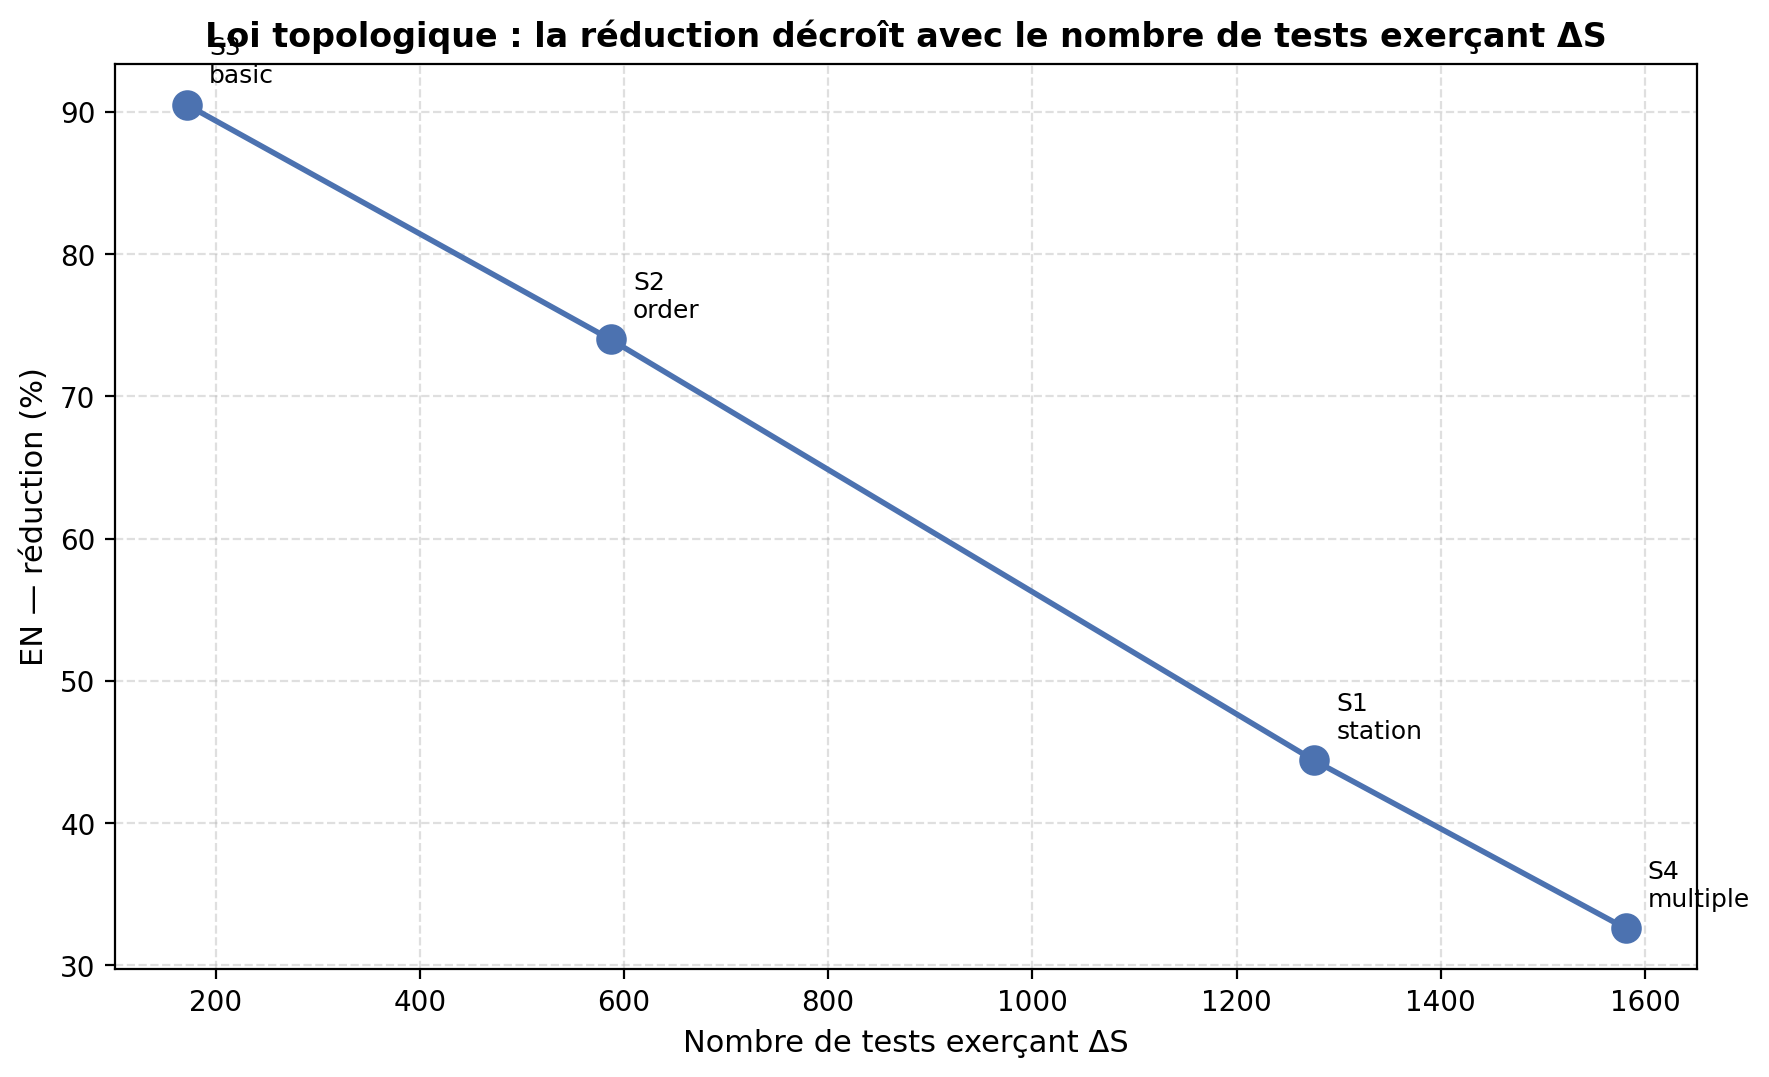
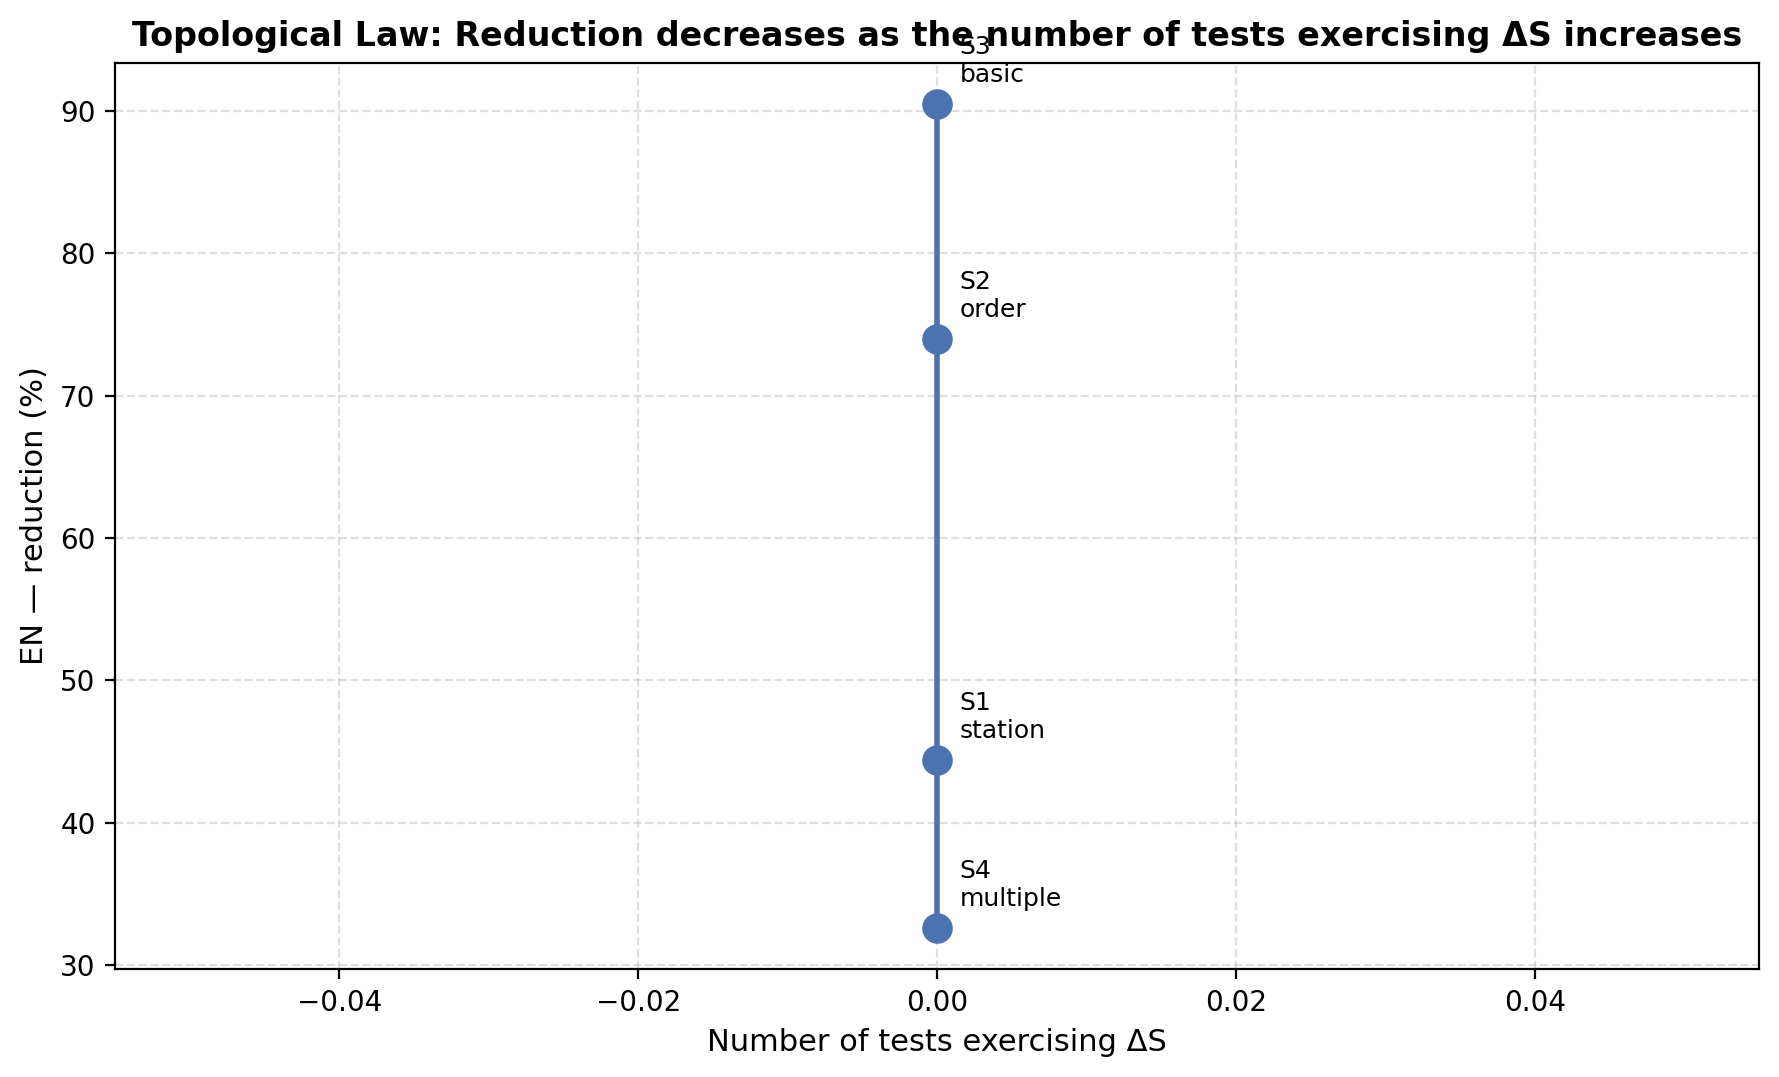
upp

diff --git a/metabp-rts/3_generer_figures.py b/metabp-rts/3_generer_figures.py
@@ -1,10 +1,10 @@
 #!/usr/bin/env python3
 """
-Génère les figures publiables du chapitre 4 (style barres groupées, façon Chen Fig.9).
-Lit final_results.csv et comparatif_baselines.csv.
-Produit des PNG haute résolution dans figures/.
+Generates publishable figures for Chapter 4 (grouped bar style, similar to Chen Fig. 9).
+Reads final_results.csv and comparatif_baselines.csv.
+Outputs high-resolution PNG files in figures/.
 
-À lancer depuis la racine metabp-rts/metabp-rts/ APRÈS les scripts 1 et 2.
+To be executed from the metabp-rts/metabp-rts/ root directory AFTER scripts 1 and 2.
 """
 import csv
 from pathlib import Path
@@ -18,11 +18,11 @@ Path("figures").mkdir(exist_ok=True)
 PALETTE = {"EN":"#4C72B0", "Recall":"#55A868", "Precision":"#C44E52", "F":"#8172B3"}
 
 # ─────────────────────────────────────────────────────────────
-# FIGURE 1 : MetaBP-RTS — métriques par scénario (barres groupées)
+# FIGURE 1 : MetaBP-RTS — Metrics per Scenario (Grouped Bars)
 # ─────────────────────────────────────────────────────────────
 rows = list(csv.DictReader(open("final_results.csv")))
-labels = {"S1_station":"S1 · station\n(feuille)", "S2_order":"S2 · order\n(hub)",
-          "S3_basic":"S3 · basic\n(intermédiaire)", "S4_multiple":"S4 · multiple\n(3 services)"}
+labels = {"S1_station":"S1 · station\n(leaf)", "S2_order":"S2 · order\n(hub)",
+          "S3_basic":"S3 · basic\n(intermediate)", "S4_multiple":"S4 · multiple\n(3 services)"}
 scen = [labels.get(r["scenario"], r["scenario"]) for r in rows]
 EN  = [float(r["EN"]) for r in rows]
 RE  = [float(r["Recall"]) for r in rows]
@@ -32,9 +32,9 @@ FM  = [float(r["F"])*100 for r in rows]
 x = np.arange(len(scen)); w = 0.20
 fig, ax = plt.subplots(figsize=(11,6))
 bars = [
-    ("EN (réduction)", EN, PALETTE["EN"], -1.5),
-    ("Recall (sûreté)", RE, PALETTE["Recall"], -0.5),
-    ("Précision", PR, PALETTE["Precision"], 0.5),
+    ("EN (reduction)", EN, PALETTE["EN"], -1.5),
+    ("Recall (safety)", RE, PALETTE["Recall"], -0.5),
+    ("Precision", PR, PALETTE["Precision"], 0.5),
     ("F-measure", FM, PALETTE["F"], 1.5),
 ]
 for lab, vals, col, off in bars:
@@ -43,8 +43,8 @@ for lab, vals, col, off in bars:
         h = bar.get_height()
         ax.annotate(f"{h:.0f}", (bar.get_x()+bar.get_width()/2, h),
                     xytext=(0,2), textcoords="offset points", ha="center", fontsize=7)
-ax.set_ylabel("Pourcentage (%)", fontsize=12)
-ax.set_title("MetaBP-RTS — Métriques par scénario de changement ΔS (Train-Ticket)",
+ax.set_ylabel("Percentage (%)", fontsize=12)
+ax.set_title("MetaBP-RTS — Metrics by Change Scenario ΔS (Train-Ticket)",
              fontsize=13, fontweight="bold")
 ax.set_xticks(x); ax.set_xticklabels(scen, fontsize=10)
 ax.set_ylim(0,108); ax.axhline(100, color=PALETTE["Recall"], ls=":", alpha=0.5)
@@ -53,57 +53,57 @@ plt.tight_layout(); plt.savefig("figures/fig_metabp_scenarios.png", dpi=200, bbo
 print("✓ figures/fig_metabp_scenarios.png")
 
 # ─────────────────────────────────────────────────────────────
-# FIGURE 2 : Comparatif Recall par technique (façon Chen Fig.8)
+# FIGURE 2 : Recall Comparison by Technique (similar to Chen Fig. 8)
 # ─────────────────────────────────────────────────────────────
 try:
     comp = list(csv.DictReader(open("comparatif_baselines.csv")))
     techs = ["Retest-All","Random-N×30","MRTS-BP*","Firewall-0","Firewall-1","MetaBP-RTS"]
     scen_ids = ["S1_station","S2_order","S3_basic","S4_multiple"]
-    # Recall moyen par technique
+    # Average Recall per technique
     fig, (ax1, ax2, ax3) = plt.subplots(1, 3, figsize=(18,5.5))
     colT = {"Retest-All":"#999999","Random-N×30":"#DD8452","MRTS-BP*":"#937860",
             "Firewall-0":"#C44E52","Firewall-1":"#CCB974","MetaBP-RTS":"#4C72B0"}
 
-    # Recall groupé par scénario
+    # Recall grouped by scenario
     xs = np.arange(len(scen_ids)); wt = 0.13
     for i,tech in enumerate(techs):
         vals = [next((float(r["Recall"]) for r in comp
                       if r["scenario"]==s and r["technique"]==tech), 0) for s in scen_ids]
         ax1.bar(xs + (i-2.5)*wt, vals, wt, label=tech, color=colT[tech])
-    ax1.set_title("Recall (sûreté) par technique", fontweight="bold")
+    ax1.set_title("Recall (safety) by technique", fontweight="bold")
     ax1.set_ylabel("Recall (%)"); ax1.set_xticks(xs)
     ax1.set_xticklabels([s.replace("_","\n") for s in scen_ids], fontsize=9)
     ax1.set_ylim(0,108); ax1.axhline(100, color="green", ls=":", alpha=0.4)
     ax1.legend(fontsize=7, loc="lower left", ncol=2); ax1.grid(axis="y", ls="--", alpha=0.4)
 
-    # EN groupé par scénario
+    # EN grouped by scenario
     for i,tech in enumerate(techs):
         vals = [next((float(r["EN"]) for r in comp
                       if r["scenario"]==s and r["technique"]==tech), 0) for s in scen_ids]
         ax2.bar(xs + (i-2.5)*wt, vals, wt, label=tech, color=colT[tech])
-    ax2.set_title("EN (réduction) par technique", fontweight="bold")
+    ax2.set_title("EN (reduction) by technique", fontweight="bold")
     ax2.set_ylabel("EN (%)"); ax2.set_xticks(xs)
     ax2.set_xticklabels([s.replace("_","\n") for s in scen_ids], fontsize=9)
     ax2.set_ylim(0,100); ax2.grid(axis="y", ls="--", alpha=0.4)
 
-    # Precision par technique (3e panneau)
+    # Precision by technique (3rd panel)
     for i,tech in enumerate(techs):
         vals = [next((float(r["Precision"]) for r in comp
                       if r["scenario"]==s and r["technique"]==tech), 0) for s in scen_ids]
         ax3.bar(xs + (i-2.5)*wt, vals, wt, label=tech, color=colT[tech])
-    ax3.set_title("Précision par technique", fontweight="bold")
-    ax3.set_ylabel("Précision (%)"); ax3.set_xticks(xs)
+    ax3.set_title("Precision by technique", fontweight="bold")
+    ax3.set_ylabel("Precision (%)"); ax3.set_xticks(xs)
     ax3.set_xticklabels([s.replace("_","\n") for s in scen_ids], fontsize=9)
     ax3.set_ylim(0,108); ax3.grid(axis="y", ls="--", alpha=0.4)
 
-    plt.suptitle("Comparaison MetaBP-RTS vs baselines (Train-Ticket)", fontsize=13, fontweight="bold")
+    plt.suptitle("Comparison MetaBP-RTS vs Baselines (Train-Ticket)", fontsize=13, fontweight="bold")
     plt.tight_layout(); plt.savefig("figures/fig_comparatif_baselines.png", dpi=200, bbox_inches="tight")
     print("✓ figures/fig_comparatif_baselines.png")
 except FileNotFoundError:
-    print("⚠ comparatif_baselines.csv absent — lancer le script 2 d'abord")
+    print("⚠ comparatif_baselines.csv missing — run script 2 first")
 
 # ─────────────────────────────────────────────────────────────
-# FIGURE 3 : Loi topologique EN vs nb tests touchant ΔS
+# FIGURE 3 : Topological Law: EN vs Number of Tests Exercising ΔS
 # ─────────────────────────────────────────────────────────────
 import json
 try:
@@ -129,14 +129,14 @@ try:
     for x,y,n in pts:
         ax.annotate(n.replace("_","\n"), (x,y), textcoords="offset points",
                     xytext=(8,8), fontsize=9)
-    ax.set_xlabel("Nombre de tests exerçant ΔS", fontsize=11)
-    ax.set_ylabel("EN — réduction (%)", fontsize=11)
-    ax.set_title("Loi topologique : la réduction décroît avec le nombre de tests exerçant ΔS",
+    ax.set_xlabel("Number of tests exercising ΔS", fontsize=11)
+    ax.set_ylabel("EN — reduction (%)", fontsize=11)
+    ax.set_title("Topological Law: Reduction decreases as the number of tests exercising ΔS increases",
                  fontsize=12, fontweight="bold")
     ax.grid(ls="--", alpha=0.4)
     plt.tight_layout(); plt.savefig("figures/fig_loi_topologique.png", dpi=200, bbox_inches="tight")
     print("✓ figures/fig_loi_topologique.png")
 except Exception as e:
-    print(f"⚠ figure loi topologique : {e}")
+    print(f"⚠ topological law figure: {e}")
 
-print("\nFigures générées dans figures/")
+print("\nFigures generated in figures/")

diff --git a/metabp-rts/1_afficher_resultats.py b/metabp-rts/1_afficher_resultats.py
@@ -14,7 +14,7 @@ def line(c="─", n=78): print(c*n)
 
 print()
 print(f"{BD}{CY}╔{'═'*76}╗{RS}")
-print(f"{BD}{CY}║{'  MetaBP-RTS — RÉSULTATS EXPÉRIMENTAUX — Train-Ticket (FudanSELab)':<76}║{RS}")
+print(f"{BD}{CY}║{'  MetaBP-RTS — EXPERIMENTAL RESULTS — Train-Ticket (FudanSELab)':<76}║{RS}")
 print(f"{BD}{CY}╚{'═'*76}╝{RS}")
 print()
 
